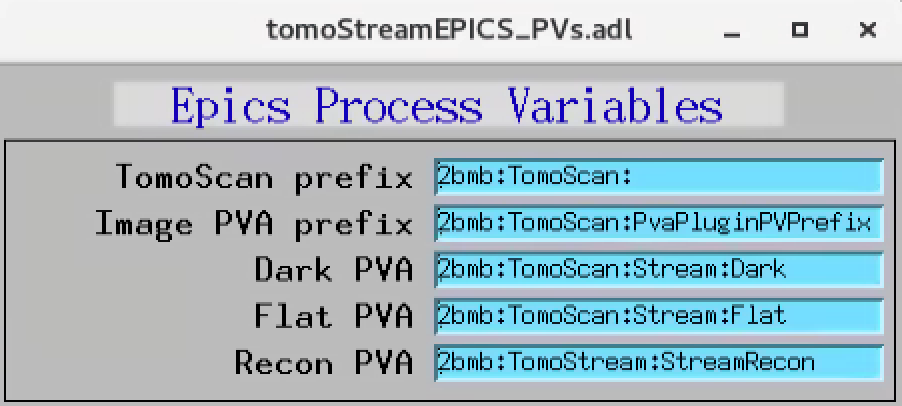
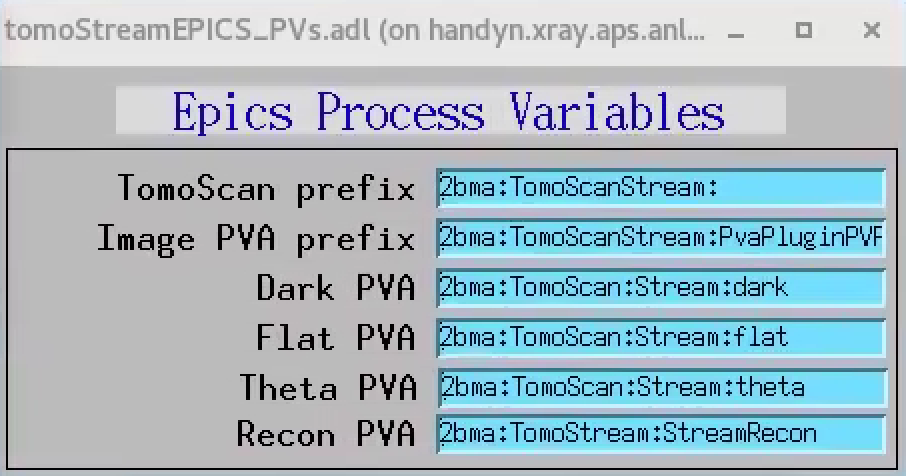
doc update

diff --git a/docs/source/usage.rst b/docs/source/usage.rst
@@ -43,23 +43,11 @@ Once `tomoScan`_ is installed on the computer connected to the detector:
     user2bmb@lyra$  cd /local/tomo/epics/synApps/support/tomostream/iocBoot/iocTomoStream/
     user2bmb@lyra$  ./start_medm
 
-.. image:: img/tomoScan.png
-    :width: 50%
-    :align: center
-
-Open the EPICS PV names configuration screen:
-
-.. image:: img/tomoScan_2BM.png
-    :width: 50%
-    :align: center
-
-and select Stream:
-
-.. image:: img/tomoScan_2BM_stream.png
+.. image:: img/tomoScanStream.png
     :width: 60%
     :align: center
 
-All `tomoscan_stream_2bm`_ functionalies supporting **tomostream** can be controlled from the tomoScan_2BM_stream user interface.
+All `tomoscan_stream_2bm`_ functionalies supporting **tomostream** can be controlled from the tomoScanStream user interface marked in yellow.
 
 Run tomoStream
 ^^^^^^^^^^^^^^

diff --git a/docs/source/about.rst b/docs/source/about.rst
@@ -28,9 +28,9 @@ All **tomostream** functionalies can be controlled from the tomoStream user inte
 - Set a number of projectons (“Pre count”) collected before a triggered data capturing event to be also saved in the same hdf5 file
 
 
-All `tomoscan_stream_2bm`_ functionalies supporting **tomostream** can be controlled from the tomoScan_2BM_stream user interface:
+All `tomoscan_stream_2bm`_ functionalies supporting **tomostream** can be controlled from the tomoScanStream user interface marked in yellow:
 
-.. image:: img/tomoScan_2BM_stream.png
+.. image:: img/tomoScanStream.png
     :width: 60%
     :align: center
 

diff --git a/readme.rst b/readme.rst
@@ -21,9 +21,9 @@ All **tomostream** functionalies can be controlled from the tomoStream user inte
 - On-demand retake of dark-flat field images
 - On-demand data capturing 
 
-All `tomoscan_stream_2bm`_ functionalies supporting **tomostream** can be controlled from the tomoScan_2BM_stream user interface:
+All `tomoscan_stream_2bm`_ functionalies supporting **tomostream** can be controlled from the tomoScanStream user interface marked in yellow:
 
-.. image:: docs/source/img/tomoScan_2BM_stream.png
+.. image:: docs/source/img/tomoScanStream.png
     :width: 50%
     :align: center
 
